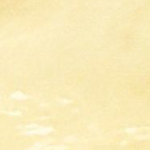
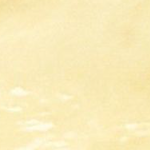
WIP

diff --git a/generate.go b/generate.go
@@ -33,7 +33,7 @@ func main() {
 
 			// Crop the image
 			x := ((i+1) * 76.0) + (i * 150.0)
-			y := 192.0 + (j * 150.0) + (j * 112.0)
+			y := 192.0 + (j * 150.0) + (j * 114.0)
 			cropArg := fmt.Sprintf("crop=150:150:%d:%d", x, y)
 			cmd = exec.Command("ffmpeg", "-i", "wallpaper_scaled.png", "-vf", cropArg, fileName)
 			var stderr bytes.Buffer
